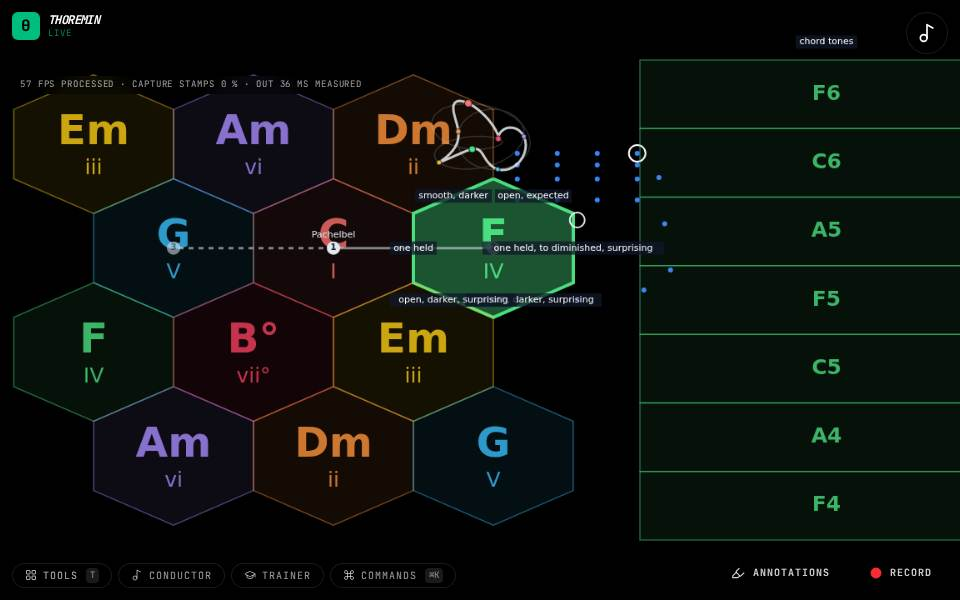
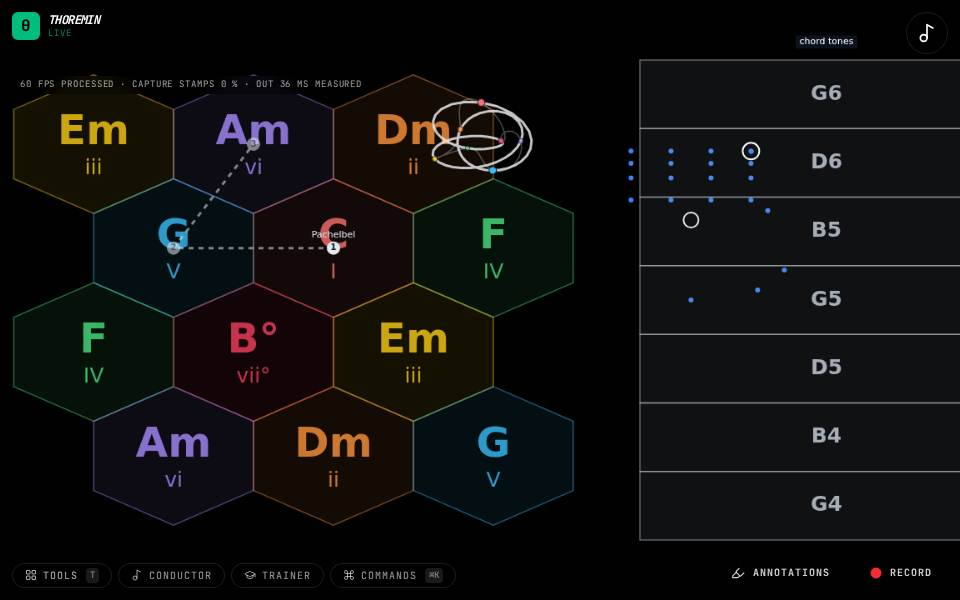
Chord map captions wrap and keep clear of each other (#805); guide: chord map settings text, Chord Map Paths picture (#810)

diff --git a/packages/sdk/src/nodes/cell_grid_draw.ts b/packages/sdk/src/nodes/cell_grid_draw.ts
@@ -24,6 +24,51 @@ const CELL_POINTER_R = 9;
 /** Approximate glyph width of the 11px captions (no measureText: the headless recording-canvas test). */
 const CELL_CAPTION_CHAR_W = 6;
 
+/** Height of one caption line, px. */
+const CAPTION_LINE_H = 14;
+/** A caption longer than this many characters wraps onto two lines at its comma (#805). */
+const CAPTION_WRAP_AT = 16;
+
+export interface CaptionBox { cx: number; cy: number; w: number; h: number; lines: string[] }
+
+/** A caption's lines: one, or two split at the comma nearest its middle when it is long (#805:
+ *  the computed captions run to four words and overlapped their neighbours on one line). */
+export function captionLines(text: string): string[] {
+  if (text.length <= CAPTION_WRAP_AT) return [text];
+  const commas = [...text.matchAll(/, /g)].map((m) => m.index as number);
+  if (commas.length === 0) return [text];
+  const at = commas.reduce((best, i) => (Math.abs(i - text.length / 2) < Math.abs(best - text.length / 2) ? i : best));
+  return [text.slice(0, at + 1), text.slice(at + 2)];
+}
+
+const boxesOverlap = (a: CaptionBox, b: CaptionBox): boolean => Math.abs(a.cx - b.cx) < (a.w + b.w) / 2 && Math.abs(a.cy - b.cy) < (a.h + b.h) / 2;
+
+/**
+ * Where each caption's box goes: wrapped to its lines, kept on the canvas, and moved vertically
+ * (away from the box it hits, alternating sides) until it clears the ones placed before it, so a
+ * caption never covers another. A box that finds no clear place within a few tries stays where it
+ * last was rather than wandering off its move. Pure: pixel sizes in, boxes out.
+ */
+export function layoutCaptions(captions: readonly { x: number; y: number; text: string }[], W: number, H: number): CaptionBox[] {
+  const placed: CaptionBox[] = [];
+  for (const c of captions) {
+    if (!c.text) continue;
+    const lines = captionLines(c.text);
+    const w = Math.max(...lines.map((l) => l.length)) * CELL_CAPTION_CHAR_W + 8;
+    const h = lines.length * CAPTION_LINE_H + 2;
+    const clampY = (y: number) => Math.min(Math.max(y, h / 2), H - h / 2);
+    const box: CaptionBox = { cx: Math.min(Math.max(c.x * W, w / 2), W - w / 2), cy: clampY(c.y * H), w, h, lines };
+    for (let tries = 0; tries < 6; tries++) {
+      const hit = placed.find((p) => boxesOverlap(box, p));
+      if (!hit) break;
+      const down = tries % 2 === 0 ? box.cy >= hit.cy : box.cy < hit.cy;
+      box.cy = clampY(down ? hit.cy + (hit.h + h) / 2 + 1 : hit.cy - (hit.h + h) / 2 - 1);
+    }
+    placed.push(box);
+  }
+  return placed;
+}
+
 /** A valid grid, or null (a malformed one draws nothing rather than half a grid). */
 export function cellGridOf(raw: unknown): CellGrid | null {
   if (!raw) return null;
@@ -129,18 +174,13 @@ export function drawCellGrid(g: CanvasRenderingContext2D, W: number, H: number, 
   }
   for (const trail of grid.trails ?? []) drawTrail(g, W, H, trail);
   g.font = '11px sans-serif';
-  for (const c of grid.captions) {
-    if (!c.text) continue;
-    const w = c.text.length * CELL_CAPTION_CHAR_W + 8;
-    // Kept on the canvas: a long caption near an edge slides in rather than being cut.
-    const cx = Math.min(Math.max(c.x * W, w / 2), W - w / 2);
-    const cy = Math.min(Math.max(c.y * H, 8), H - 8);
+  for (const box of layoutCaptions(grid.captions, W, H)) {
     g.globalAlpha = 0.75;
     g.fillStyle = '#0f172a';
-    g.fillRect(cx - w / 2, cy - 8, w, 16);
+    g.fillRect(box.cx - box.w / 2, box.cy - box.h / 2, box.w, box.h);
     g.globalAlpha = 1;
     g.fillStyle = '#ffffff';
-    g.fillText(c.text, cx, cy);
+    box.lines.forEach((line, i) => g.fillText(line, box.cx, box.cy - box.h / 2 + CAPTION_LINE_H * (i + 0.5) + 1));
   }
   g.globalAlpha = 0.9;
   g.strokeStyle = '#ffffff';

diff --git a/test/harmony/caption_layout.test.ts b/test/harmony/caption_layout.test.ts
@@ -1,0 +1,41 @@
+/** Caption layout on the cell grid (#805): wrapped, kept on the canvas, never covering each other. */
+import { describe, expect, it } from 'vitest';
+import { captionLines, layoutCaptions } from '../../packages/sdk/src/nodes/cell_grid_draw';
+
+const overlap = (a: { cx: number; cy: number; w: number; h: number }, b: typeof a) => Math.abs(a.cx - b.cx) < (a.w + b.w) / 2 && Math.abs(a.cy - b.cy) < (a.h + b.h) / 2;
+
+describe('captionLines', () => {
+  it('keeps a short caption on one line and splits a long one at the comma nearest its middle', () => {
+    expect(captionLines('4th up')).toEqual(['4th up']);
+    expect(captionLines('one held, to diminished, surprising')).toEqual(['one held, to diminished,', 'surprising']);
+    expect(captionLines('averyveryverylongwordwithoutcommas')).toHaveLength(1);
+  });
+});
+
+describe('layoutCaptions', () => {
+  it('moves crowded captions apart, keeps them on the canvas and drops empty ones', () => {
+    const caps = [
+      { x: 0.5, y: 0.5, text: 'one held, to diminished, surprising' },
+      { x: 0.5, y: 0.5, text: 'open, darker, surprising' },
+      { x: 0.51, y: 0.52, text: 'smooth, darker' },
+      { x: 0.99, y: 0.01, text: 'smooth, brighter, expected' },
+      { x: 0.2, y: 0.2, text: '' },
+    ];
+    const boxes = layoutCaptions(caps, 960, 600);
+    expect(boxes).toHaveLength(4);
+    for (let i = 0; i < boxes.length; i++) {
+      const b = boxes[i];
+      expect(b.cx - b.w / 2).toBeGreaterThanOrEqual(0);
+      expect(b.cx + b.w / 2).toBeLessThanOrEqual(960);
+      expect(b.cy - b.h / 2).toBeGreaterThanOrEqual(0);
+      expect(b.cy + b.h / 2).toBeLessThanOrEqual(600);
+      for (let j = 0; j < i; j++) expect(overlap(b, boxes[j])).toBe(false);
+    }
+  });
+
+  it('leaves a lone caption where it was put', () => {
+    const [b] = layoutCaptions([{ x: 0.3, y: 0.4, text: '4th up' }], 1000, 500);
+    expect(b.cx).toBe(300);
+    expect(b.cy).toBe(200);
+  });
+});

diff --git a/public/guide/instruments/chord-map.html b/public/guide/instruments/chord-map.html
@@ -26,7 +26,7 @@
 
 
 <details><summary>Settings</summary>
-<p><strong>Chord map</strong> in the editor: the layout (the honeycomb map, one row by fifths, or one row in scale order); hold or strum; which hand points and with what (the palm or a fingertip); how big the chords are drawn; the melody&#39;s notes, volume and range; seventh chords; the words on each move (the interval, or what the move does); a known chord path to follow, drawn ahead of your chord as a trail; whether the map is drawn on the video; and what keeps the beat for arpeggios (the Chord sound&#39;s tempo, or the song loaded in the Song tool). A new chord can also wait for the next beat, so changes land in time. The key and the way a held chord sounds (sustained, arpeggiated, its tempo) are in <strong>Sound</strong>.</p>
+<p><strong>Chord map</strong> in the editor: the layout (the honeycomb map, one row by fifths, or one row in scale order); hold or strum; which hand points and with what (the palm or a fingertip); how big the chords are drawn; the melody&#39;s notes and volume; seventh chords; the words on each move (the interval, or what the move does); a known chord path to follow, drawn ahead of your chord as a trail; whether the map is drawn on the video; and what keeps the beat for arpeggios (the Chord sound&#39;s tempo, or the song loaded in the Song tool). A new chord can also wait for the next beat, so changes land in time. The key and the way a held chord sounds (sustained, arpeggiated, its tempo) are in <strong>Sound</strong>.</p>
 </details>
 
 

diff --git a/guide/instruments/chord-map.md b/guide/instruments/chord-map.md
@@ -16,5 +16,5 @@ Your right hand plays the melody: its height picks a note from the chord, an oct
 :::
 
 :::details Settings
-**Chord map** in the editor: the layout (the honeycomb map, one row by fifths, or one row in scale order); hold or strum; which hand points and with what (the palm or a fingertip); how big the chords are drawn; the melody's notes, volume and range; seventh chords; the words on each move (the interval, or what the move does); a known chord path to follow, drawn ahead of your chord as a trail; whether the map is drawn on the video; and what keeps the beat for arpeggios (the Chord sound's tempo, or the song loaded in the Song tool). A new chord can also wait for the next beat, so changes land in time. The key and the way a held chord sounds (sustained, arpeggiated, its tempo) are in **Sound**.
+**Chord map** in the editor: the layout (the honeycomb map, one row by fifths, or one row in scale order); hold or strum; which hand points and with what (the palm or a fingertip); how big the chords are drawn; the melody's notes and volume; seventh chords; the words on each move (the interval, or what the move does); a known chord path to follow, drawn ahead of your chord as a trail; whether the map is drawn on the video; and what keeps the beat for arpeggios (the Chord sound's tempo, or the song loaded in the Song tool). A new chord can also wait for the next beat, so changes land in time. The key and the way a held chord sounds (sustained, arpeggiated, its tempo) are in **Sound**.
 :::
